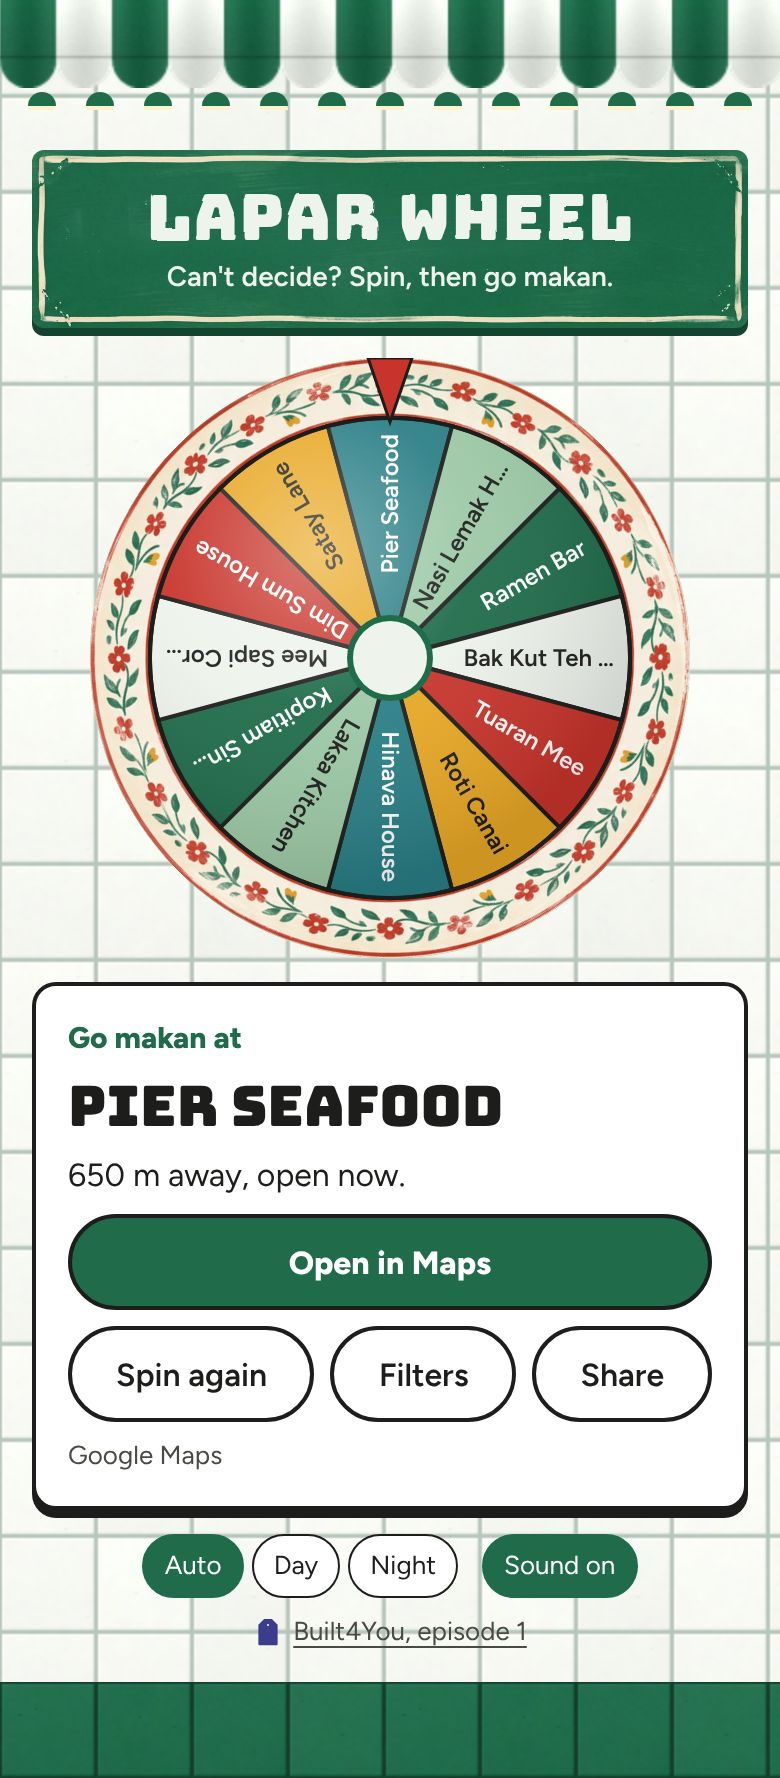
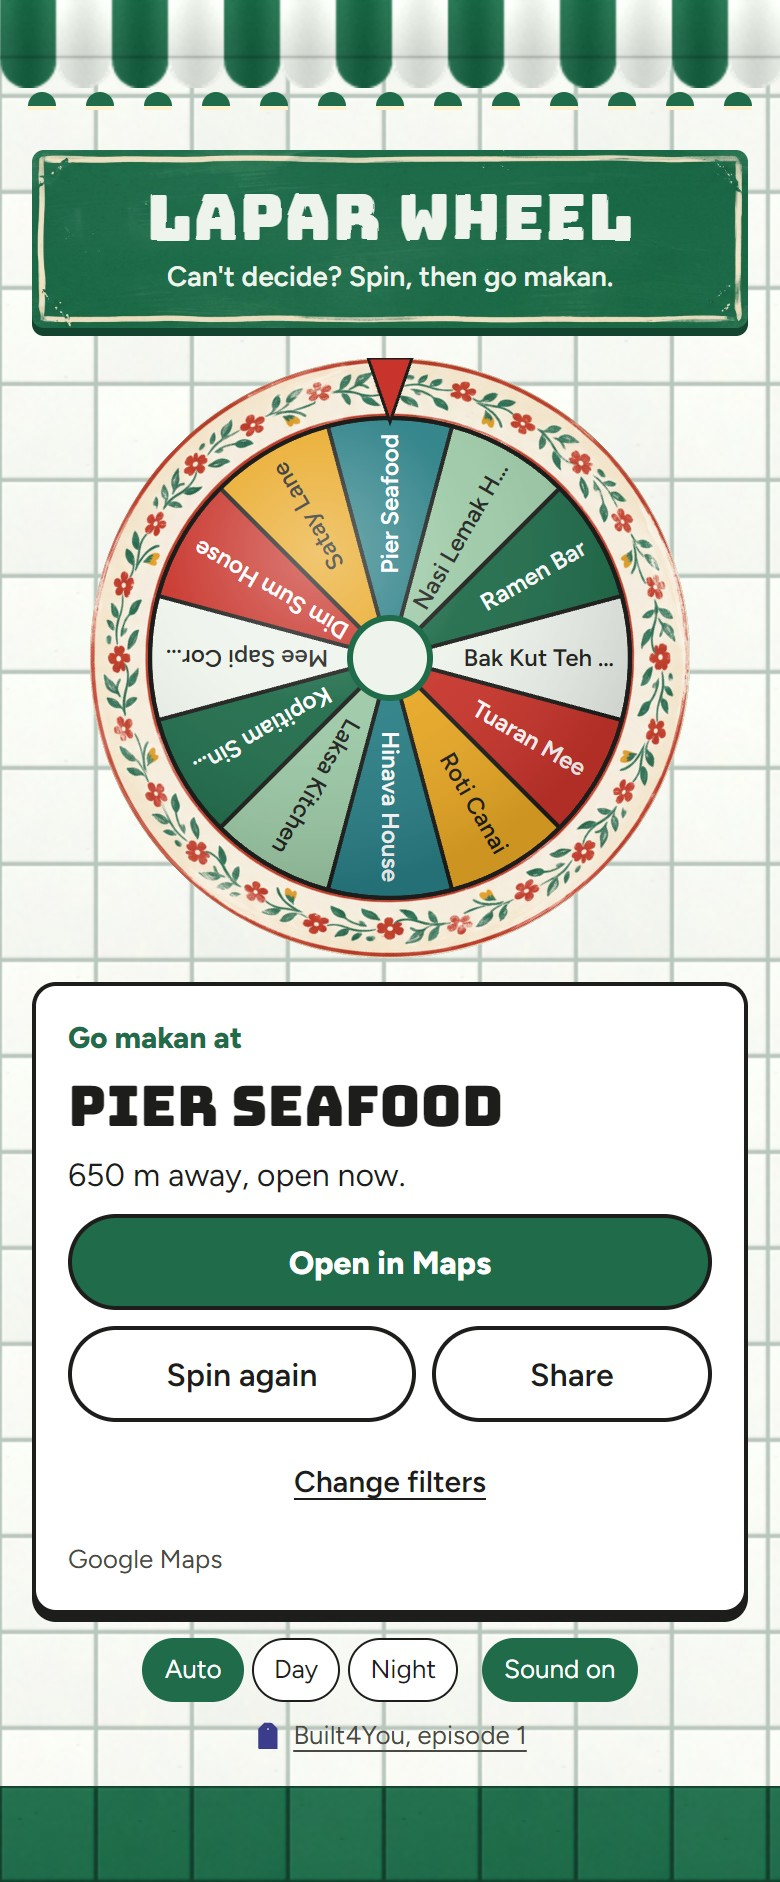
Result card: Spin again and Share, with a Change filters link
Three buttons filled the 390px row, so Share wrapped on smaller phones and whenever Link copied showed. Filters becomes a Change filters text link under the row, as on the notices. Also clips the wheel section on the x axis: the rotated square's corners could scroll the page sideways. Layouts are now checked at 360px as well as 390px.

diff --git a/components/NearMe.tsx b/components/NearMe.tsx
@@ -236,7 +236,7 @@ export function NearMe() {
     if (filters === filtersAtOpen.current) return;
     setPick(null);
     setNotice(null);
-    // The opener may have been the result card's Filters button, which is now gone.
+    // The opener may have been the result card's Change filters link, which is now gone.
     requestAnimationFrame(() => summary.current?.focus());
   }
 
@@ -264,9 +264,13 @@ export function NearMe() {
 
   return (
     <div className="flex flex-col gap-3">
-      <section aria-label="Wheel" className={
-          notice || showRefused || (shared && shared.view !== "loading" && shared.view !== "shared") ? "wheel-dim" : undefined
-        }>
+      {/* The turning square's corners reach 1.41× its width mid-turn; clip them so the page never scrolls sideways. */}
+      <section
+        aria-label="Wheel"
+        className={`overflow-x-clip ${
+          notice || showRefused || (shared && shared.view !== "loading" && shared.view !== "shared") ? "wheel-dim" : ""
+        }`}
+      >
         <Wheel
           names={places.map((p) => p.name)}
           rotation={rotation}
@@ -289,9 +293,6 @@ export function NearMe() {
               <Button onClick={() => void spin()} disabled={busy}>
                 Spin again
               </Button>
-              <Button onClick={openSheet} disabled={busy} aria-haspopup="dialog">
-                Filters
-              </Button>
               <Button onClick={() => void share(pick)} disabled={busy}>
                 {copied ?? "Share"}
               </Button>
@@ -302,6 +303,15 @@ export function NearMe() {
                 <input readOnly value={shareUrl(pick.id)} onFocus={(e) => e.currentTarget.select()} className={field} />
               </label>
             )}
+            <button
+              type="button"
+              aria-haspopup="dialog"
+              onClick={openSheet}
+              disabled={busy}
+              className="min-h-11 cursor-pointer self-center px-3 text-notice-body font-semibold underline underline-offset-3"
+            >
+              Change filters
+            </button>
             <p className="text-small text-ink-soft" translate="no">
               Google Maps
             </p>

diff --git a/docs/redesign/reference.html b/docs/redesign/reference.html
@@ -89,6 +89,7 @@ body{margin:0;background:#8a8a8a;font-family:Figtree,system-ui,sans-serif}
 .nbtns{display:flex;flex-wrap:wrap;gap:8px}
 .nbtns .btn{flex:1 1 auto;white-space:nowrap}
 .linkbtn{align-self:center;background:none;border:0;padding:4px;font:inherit;font-size:15px;font-weight:600;color:#1d1d1b;text-decoration:underline;text-underline-offset:3px}
+.card .linkbtn{color:var(--ink);min-height:44px}
 .field{display:flex;flex-direction:column;gap:4px}
 .field span{font-size:14px;line-height:20px;color:#4a4a44}
 .select{height:48px;padding:0 12px;border-radius:10px;font:inherit;font-size:16px;border:2px solid #1d1d1b;background:#ffffff;color:#1d1d1b}
@@ -202,7 +203,8 @@ switch (state) {
       <h2 class="place">Pier Seafood</h2>
       <p class="meta">650 m away, open now.</p>
       <a class="btn maps" href="#">Open in Maps</a>
-      <div class="nbtns"><button class="btn ghost">Spin again</button><button class="btn ghost">Filters</button><button class="btn ghost">Share</button></div>
+      <div class="nbtns"><button class="btn ghost">Spin again</button><button class="btn ghost">Share</button></div>
+      <button class="linkbtn">Change filters</button>
       <p class="attrib">Google Maps</p>
     </section>`;
     break;

diff --git a/docs/redesign.md b/docs/redesign.md
@@ -84,7 +84,7 @@ One centred column, at most 390px wide, on a full-width ground. Top to bottom:
 4. **Wheel**, 300px, or the column width if smaller.
 5. **Controls** before a result: a summary button, the Spin button (60px tall), and a hint "Or swipe the wheel" (only once swipe exists).
    - The summary reads like "Near you, within 2 km, any cuisine, rated 4.0 and up", with "In [area]" instead of "Near you" in area mode. It ends with an underlined "Change" and opens the filter sheet.
-6. **Result card** replaces the controls once the wheel lands: kicker "Go makan at", the name, "[distance] away, open now.", a full-width Open in Maps button, then Spin again, Filters and Share (see Share links), then "Google Maps" in small print (attribution, same container).
+6. **Result card** replaces the controls once the wheel lands: kicker "Go makan at", the name, "[distance] away, open now.", a full-width Open in Maps button, then Spin again and Share (see Share links), then a "Change filters" text link with a 44px tall tap area that opens the filter sheet, then "Google Maps" in small print (attribution, same container).
 7. **Notices** replace the controls when there's no pick (see below).
 8. **Footer**, centred: the Look switch (Auto / Day / Night) with the Sound toggle beside it (Sound arrives in PR 2), and under them the "Built4You, episode 1" credit with the tag mark. In the day look the footer stays above the green tile band.
 
@@ -98,7 +98,7 @@ One centred column, at most 390px wide, on a full-width ground. Top to bottom:
 
 ## Filter sheet
 
-Opens from the summary's Change and from the result card's Filters button. It's a bottom sheet over a dim backdrop (`rgba(20,16,30,0.55)`). `role="dialog"`, `aria-modal`, focus moves in and returns to the opener, Escape and the backdrop close it, focus is trapped while open. It doesn't open mid-spin.
+Opens from the summary's Change, the result card's Change filters link and the nothing-open notice's Change filters link. It's a bottom sheet over a dim backdrop (`rgba(20,16,30,0.55)`). `role="dialog"`, `aria-modal`, focus moves in and returns to the opener, Escape and the backdrop close it, focus is trapped while open. It doesn't open mid-spin.
 
 1. Title "Filters" with a Reset button.
 2. **Where**: the Near me button ("Finding you…" while locating, "Using your location." once found), the area picker when in area mode, and the line "Your location is only used for this search. It's never stored."
@@ -167,7 +167,7 @@ Nothing else moves: no page-load animation, no fade-up on scroll.
 
 ## Share links
 
-- Result card buttons: Spin again, Filters, Share, in one wrapping row (the notice-button rule: each grows to fill, labels never wrap).
+- Result card buttons: Spin again and Share, in one wrapping row (the notice-button rule: each grows to fill, labels never wrap). Under them, a "Change filters" text link with a 44px tall tap area, as on the notices, opens the filter sheet. Three buttons left no room at 390px and wrapped on 375px and 360px phones.
 - Share: `navigator.share({ title: "Lapar Wheel", text: "The wheel picked [name].", url })` where it exists. Otherwise copy the url, and the button reads "Link copied" for 2 s, announced politely. If copying fails, show the link in a read-only, selectable field under the buttons. A cancelled share sheet is not an error.
 - The url is `https://built4you.jasperntc.dev/lapar-wheel?p=<placeId>`, with nothing else in it. Never a location, name or filter.
 - Opening a link: read `p` on the client. A valid ID matches `/^[A-Za-z0-9_-]{16,256}$/`. Anything else is dropped from the url (`history.replaceState`) and the normal start screen shows, with no error and no throw. A valid ID makes exactly one call to `/api/place/:id?check=status`. Never ask for location, never spin.

diff --git a/REVIEW_LOG.md b/REVIEW_LOG.md
@@ -4,6 +4,8 @@ Mistakes caught during review, mine and the AI's. Newest first.
 
 | Date | Where | Mistake | Caught by | Fix |
 |---|---|---|---|---|
+| 2026-11-05 | `components/NearMe.tsx` wheel | The turning layer is a square, so at some landing angles its rotated corners reached past the column and the page scrolled sideways (4px at 360px after one test spin, up to about 17px at 390px) | Claude Code, first 360px check in PR 22 | The wheel section clips on the x axis; the round wheel and the pointer are untouched |
+| 2026-11-05 | `docs/redesign.md` result card | Three buttons filled the 390px row with no spare room, so Share wrapped on 375px and 360px phones and whenever "Link copied" showed | Claude Code, PR 22 | Two buttons (Spin again, Share) plus a "Change filters" link |
 | 2026-11-05 | `docs/redesign/reference.html` shared-cap | The mock showed a "Google Maps" line on the out-of-spins share card, where no Google data appears | Claude Code, comparing the mock with the spec | Line removed and the shared-cap screenshots re-taken |
 | 2026-11-04 | `docs/redesign.md` Notices | Notice buttons were equal columns, so a longer label ("Try location again" beside "Spin") wrapped onto two lines inside a pill | Claude Code, refused-notice screenshots | Buttons grow to fit, labels never wrap, and two that don't fit stack |
 | 2026-11-04 | `docs/redesign.md` Notices, `components/NearMe.tsx` | The redesign spec put a bordered 160px picture inside a bordered panel, with one line of copy and the Spin button left under it, so the empty and out-of-spins notices looked broken, read like errors and invited spins that couldn't work | Me, reviewing PR 1 on my phone | Notices became a taped-up paper notice with a headline, the filters or reset time, and their own next-step buttons; the Spin button hides while one shows |

diff --git a/docs/redesign/README.md b/docs/redesign/README.md
@@ -5,6 +5,7 @@ How Lapar Wheel should look, as of 2026-11-04.
 - `../redesign.md` is the spec and the source of truth. If anything here disagrees with it, the spec wins: ask before guessing.
 - `reference.html` is a static mock of every screen in both looks. Open it from the repo (it loads the real fonts and images from `public/`) and pick a screen from the bar at the top, or use `?s=<screen>&look=<day|night>`. Add `&shot=1` to hide the screen bar for screenshots. It isn't part of the app and isn't built or shipped.
 - `screens/` holds a screenshot of each screen at 390px wide (2x), named `<look>-<screen>.jpg`. Screens taller than 844px are shown at full height: the page scrolls there.
+- Check every layout at 360px as well as 390px: rows that fit at 390px can wrap on smaller phones.
 - `../redesign-prototype.dc.html` is the earlier clickable prototype's source. Use it only for the spin code (`startSpin`, the swipe handlers, `tick`). Its footer and notices are out of date.
 
 Screens: `start`, `result`, `sheet`, `empty-2` (nothing open at 2 km), `empty-10` (nothing open at 10 km with filters), `cap` (out of spins for everyone), `ip-cap` (out of spins for you), `rate` (slow down), `refused` (location refused), `shared` (opened from a share link), `shared-loading` (checking a share link), `shared-gone` (the shared place isn't available anymore), `shared-cap` (a share link opened when Lapar Wheel is out of spins).
